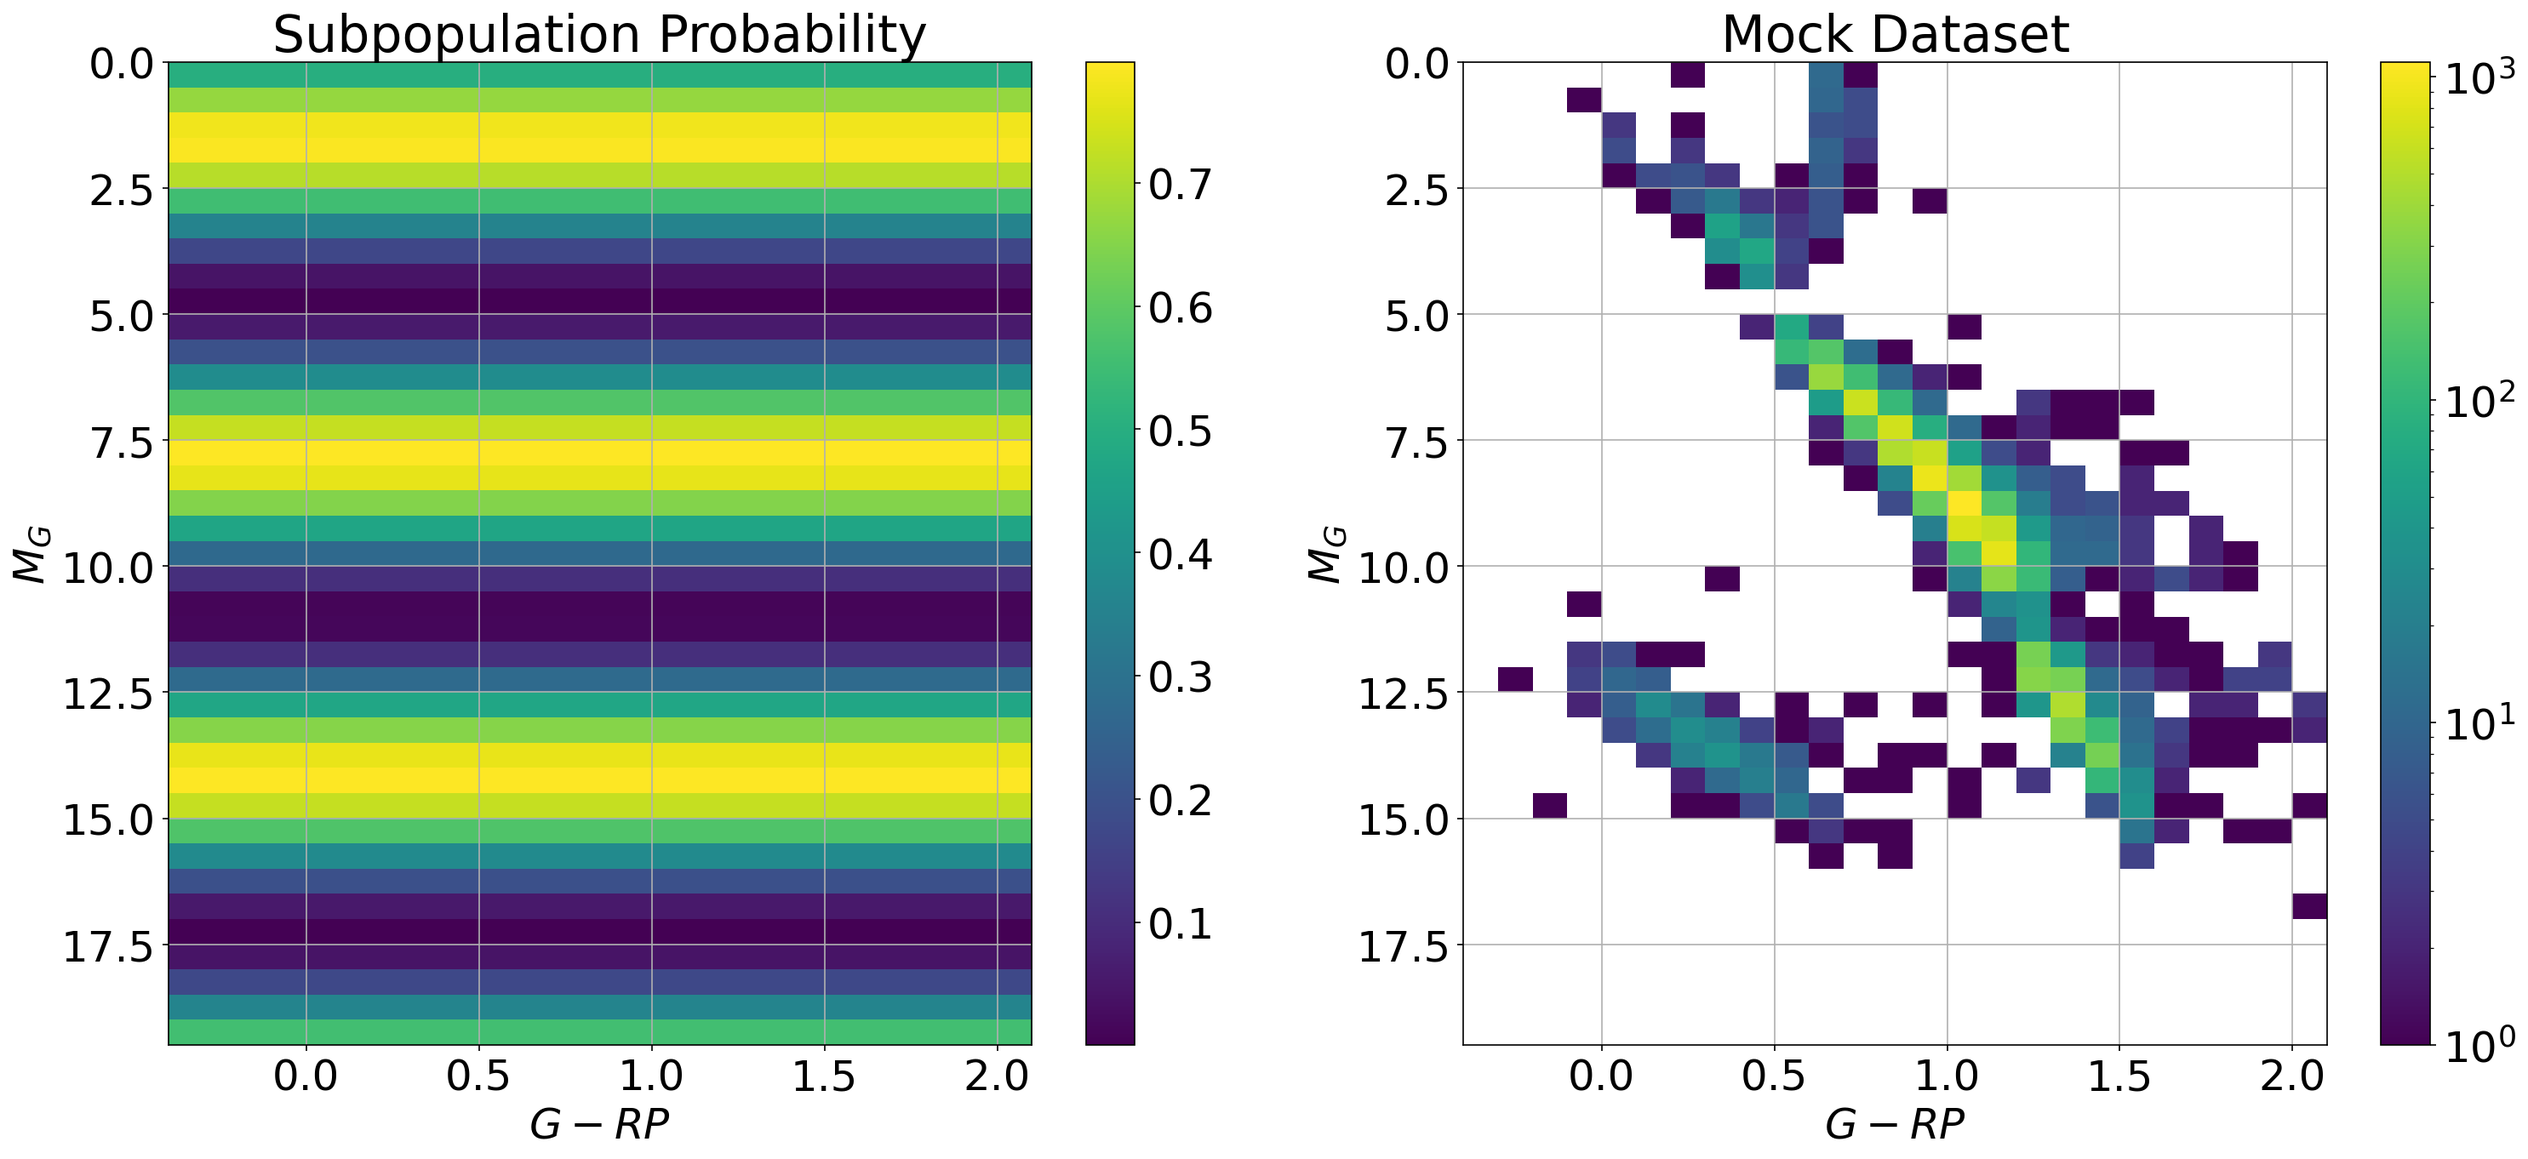
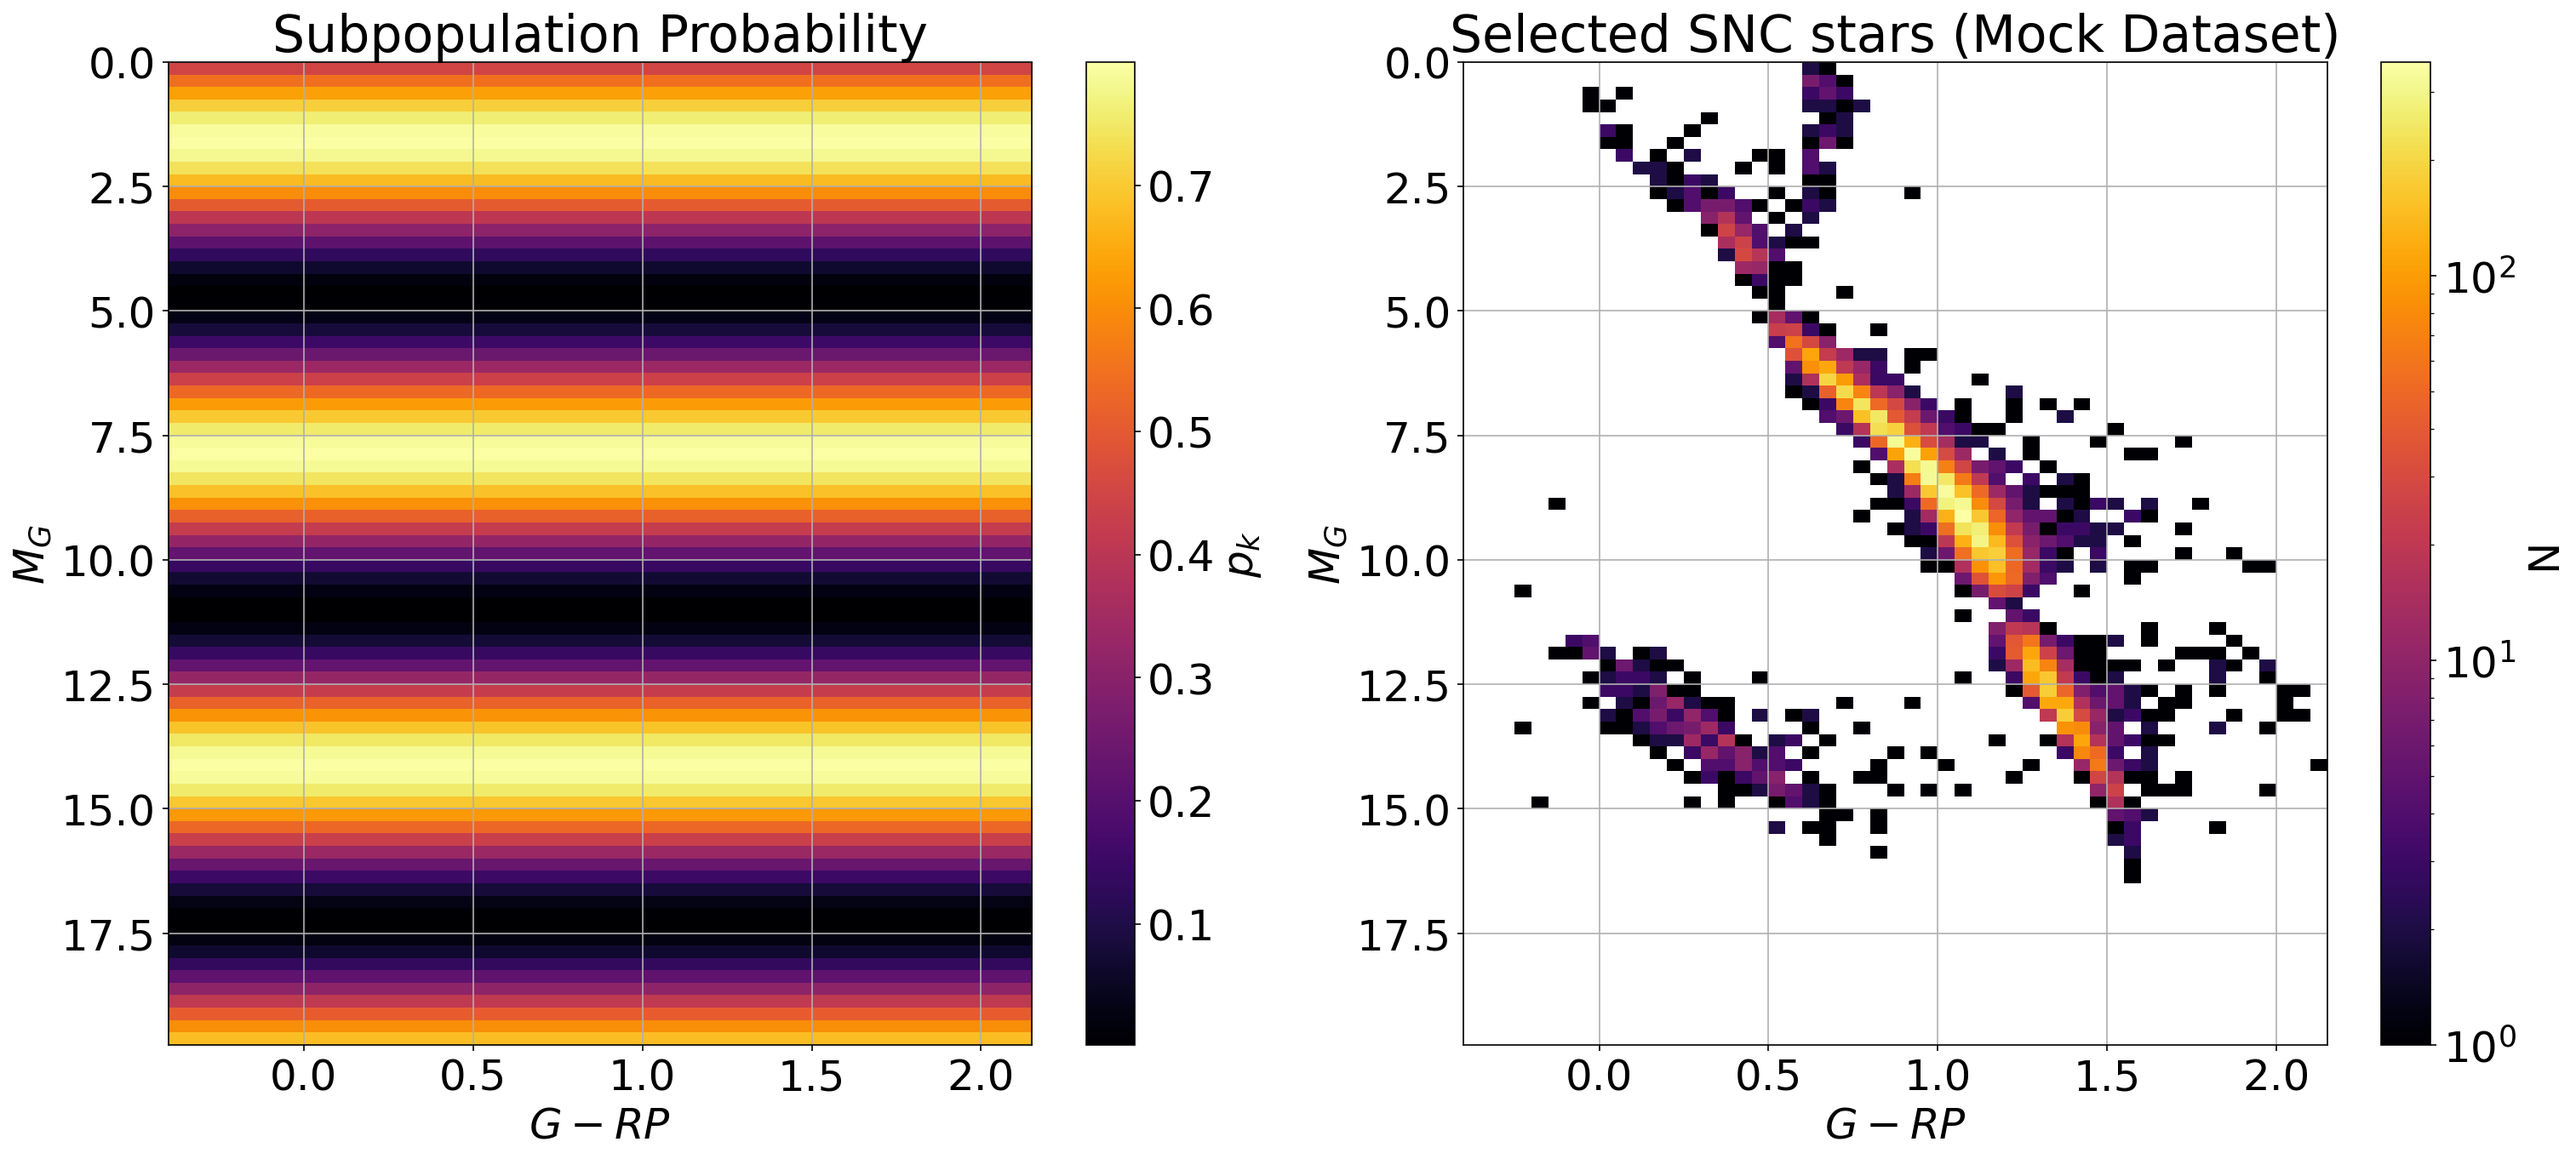
fix up plots for paper

diff --git a/notebooks/forward_model_GCNS_mock_proof.py b/notebooks/forward_model_GCNS_mock_proof.py
@@ -23,11 +23,11 @@ from jax import lax
 
 
 if __name__ == '__main__':
-    MG_bin_list = [0, 20, 0.5]
+    MG_bin_list = [0, 20, 0.25]
 
     sf_bins={'healpix': 3,
-            'phot_g_mean_mag': [0, 22, 1],
-            'g_rp': [-0.4, 2.2, 0.1]}
+             'phot_g_mean_mag': [0, 22, 1],
+             'g_rp': [-0.4, 2.2, 0.05]}
 
     n_g_rp = len(np.arange(*sf_bins['g_rp'])) - 1
     n_mg = len(np.arange(*MG_bin_list)) - 1
@@ -77,8 +77,8 @@ if __name__ == '__main__':
 
     f, (ax1, ax2) = plt.subplots(1, 2, figsize=(24, 10))
     dens = ax1.imshow(ptrue.T, origin='lower', aspect='auto',
-            extent=(g_rp_bins.min(), g_rp_bins.max(), MG_bins.min(), MG_bins.max()))
-    plt.colorbar(dens, ax=ax1)
+            extent=(g_rp_bins.min(), g_rp_bins.max(), MG_bins.min(), MG_bins.max()), cmap='inferno')
+    plt.colorbar(dens, ax=ax1, label=r'$p_k$')
     ax1.invert_yaxis()
     ax1.set_xlabel(r'$G - RP$')
     ax1.set_ylabel(r'$M_G$')
@@ -86,13 +86,13 @@ if __name__ == '__main__':
     ax1.grid()
 
     _, _, _, dens = ax2.hist2d(filter_data['g_rp'].to_numpy(), filter_data['MG'].to_numpy(),
-                            bins=[g_rp_bins, MG_bins], norm=LogNorm())
-    plt.colorbar(dens, ax=ax2)
+                            bins=[g_rp_bins, MG_bins], norm=LogNorm(), cmap='inferno')
+    plt.colorbar(dens, ax=ax2, label='N')
     ax2.invert_yaxis()
     ax2.grid()
     ax2.set_xlabel(r'$G - RP$')
     ax2.set_ylabel(r'$M_G$')
-    ax2.set_title('Mock Dataset')
+    ax2.set_title('Selected SNC stars (Mock Dataset)')
     plt.savefig('paper_plots/mock_example/mock_data.png', bbox_inches='tight')
     plt.close()
 
@@ -125,11 +125,11 @@ if __name__ == '__main__':
                                 bins=[g_rp_bins, MG_bins])
 
 
-    f, (ax1, ax2, ax3) = plt.subplots(1, 3, figsize=(36, 10))
+    f, (ax1, ax2) = plt.subplots(1, 2, figsize=(24, 10))
     dens = ax1.imshow(np.nanpercentile(Nboot, 50, axis=0).T, origin='lower', aspect='auto',
             extent=(g_rp_bins.min(), g_rp_bins.max(), MG_bins.min(), MG_bins.max()),
-                    norm=LogNorm(vmin=1e-1, vmax=1e4))
-    plt.colorbar(dens, ax=ax1)
+                    norm=LogNorm(vmin=1e-1, vmax=1e4), cmap='inferno')
+    plt.colorbar(dens, ax=ax1, label='N')
     ax1.invert_yaxis()
     ax1.grid()
     ax1.set_xlabel(r'$G - RP$')
@@ -138,23 +138,13 @@ if __name__ == '__main__':
 
     dens = ax2.imshow(Ntot.T * ptrue.T, origin='lower', aspect='auto',
             extent=(g_rp_bins.min(), g_rp_bins.max(), MG_bins.min(), MG_bins.max()), 
-                    norm=LogNorm(vmin=1e-1, vmax=1e4))
-    plt.colorbar(dens, ax=ax2)
+                    norm=LogNorm(vmin=1e-1, vmax=1e4), cmap='inferno')
+    plt.colorbar(dens, ax=ax2, label='N')
     ax2.invert_yaxis()
     ax2.grid()
     ax2.set_xlabel(r'$G - RP$')
     ax2.set_ylabel(r'$M_G$')
     ax2.set_title('Directly Selecting GCNS (True)')
-
-    dens = ax3.imshow(Nobs.T, origin='lower', aspect='auto',
-            extent=(g_rp_bins.min(), g_rp_bins.max(), MG_bins.min(), MG_bins.max()),
-                    norm=LogNorm(vmin=1e-1, vmax=1e4))
-    plt.colorbar(dens, ax=ax3)
-    ax3.invert_yaxis()
-    ax3.grid()
-    ax3.set_title('Selected SNC stars')
-    ax3.set_xlabel(r'$G - RP$')
-    ax3.set_ylabel(r'$M_G$')
     plt.savefig('paper_plots/mock_example/mcmc_results.png', bbox_inches='tight')
     plt.close()
 
@@ -162,7 +152,7 @@ if __name__ == '__main__':
     plt.hist(MG_bins[:-1], bins=MG_bins, weights=np.nansum(Ntot * ptrue, axis=0),
             histtype='step', edgecolor='k', lw=2, label='Directly Selecting GCNS (True)')
     plt.hist(MG_bins[:-1], bins=MG_bins, weights=np.nansum(Nobs, axis=0),
-            histtype='step', edgecolor='b', lw=2, label='Selected SNC stars')
+            histtype='step', edgecolor='b', lw=2, label='Selected SNC stars (Mock Dataset)')
 
     plt.hist(MG_bins[:-1], bins=MG_bins, weights=np.nansum(np.nanpercentile(Nboot, 50, axis=0), axis=0),
             histtype='step', edgecolor='r', lw=2, label='Forward Modeling GCNS\nFrom Selected SNC stars')
